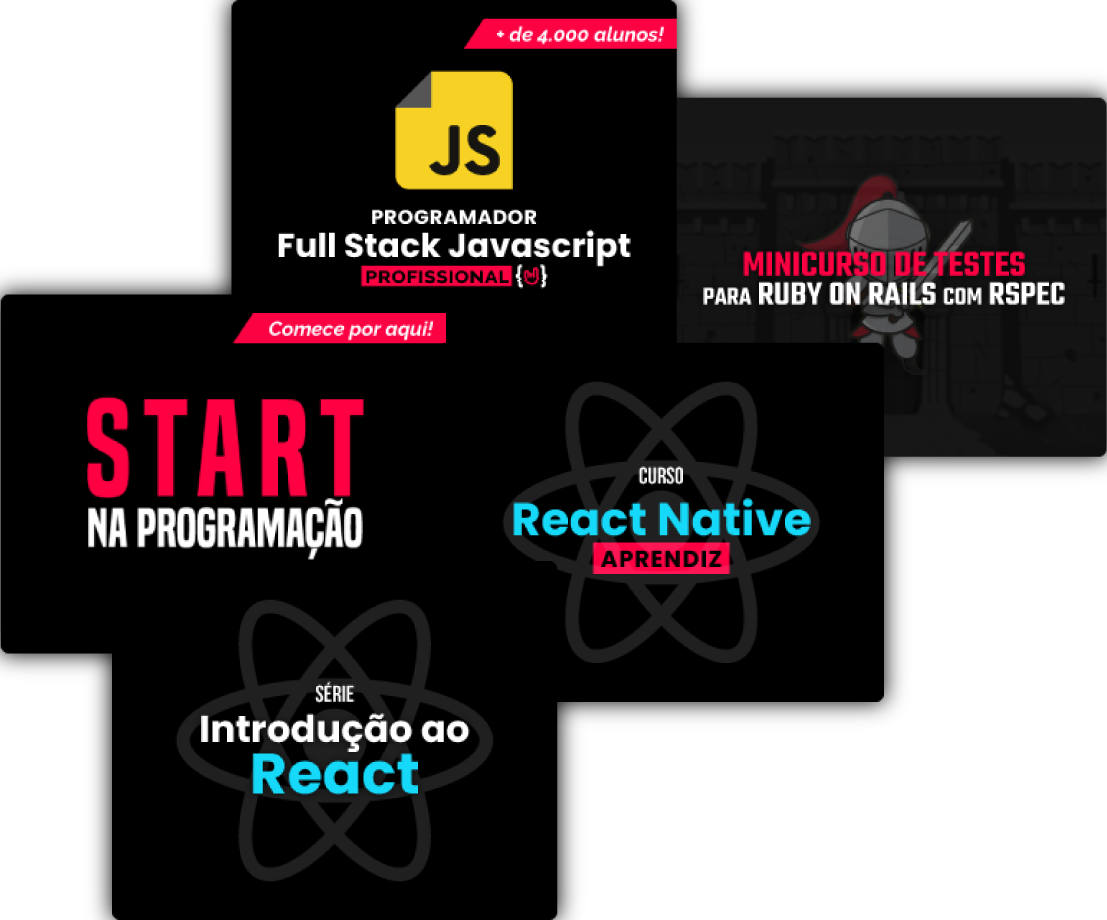
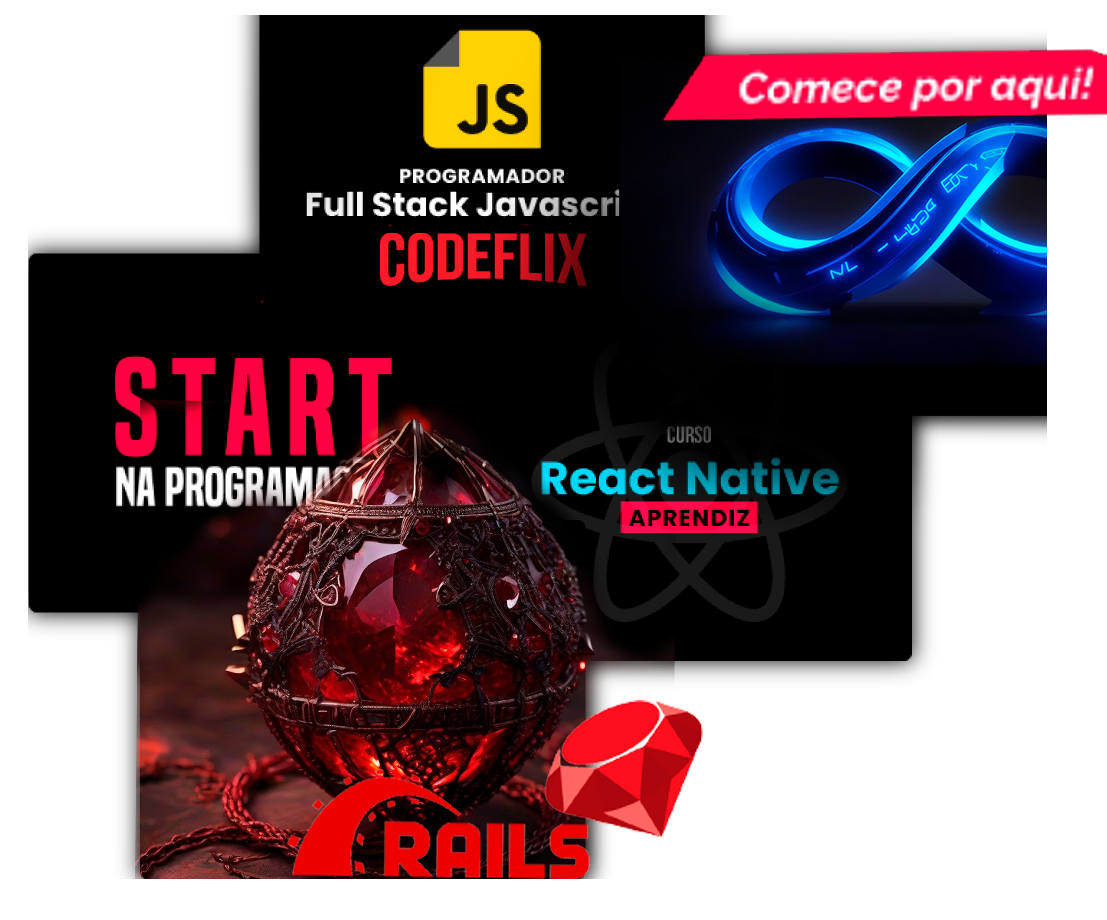
modificando imagens de slide, efeitos de hover, e estilos do profil e card e mudando as cores

diff --git a/src/components/common/slideCard/styles.module.scss b/src/components/common/slideCard/styles.module.scss
@@ -7,21 +7,30 @@
   cursor: pointer;
   transition: .4s;
   margin-left: 12px;
+  margin-bottom: 5rem;
 
   overflow: hidden;
   text-overflow: clip;
 
+  .slideImg{
+    width: 100%;
+    height: 200px;
+    object-fit: cover;
+    transition: .3s;
+  }
+  
   &:hover{
     border-color: $lightRed;
-    height: 380px;
+    position: absolute;
+    
+    .slideImg{
+      height: 0px;
+    }
   }
+  
 }
 
-.slideImg{
-  width: 100%;
-  height: 200px;
-  object-fit: cover;
-}
+
 
 .slideTitle{
   color: white;

diff --git a/src/styles/colors.module.scss b/src/styles/colors.module.scss
@@ -1,5 +1,5 @@
-$lightRed: #ff0044;
-$darkRed: #b30d39;
+$lightRed:#ff0841;
+$darkRed: #b10c43;
 $lightGray: #ccc8c9;
 $mediumGray: #9e9a9a;
 $darkGray: #4e4e4e;

diff --git a/src/styles/profile.module.scss b/src/styles/profile.module.scss
@@ -49,7 +49,7 @@
 }
 
 .memberTimeImg{
-  width: 20px;
+  width: 40px;
 }
 .memberText {
   font-size: 14px;
